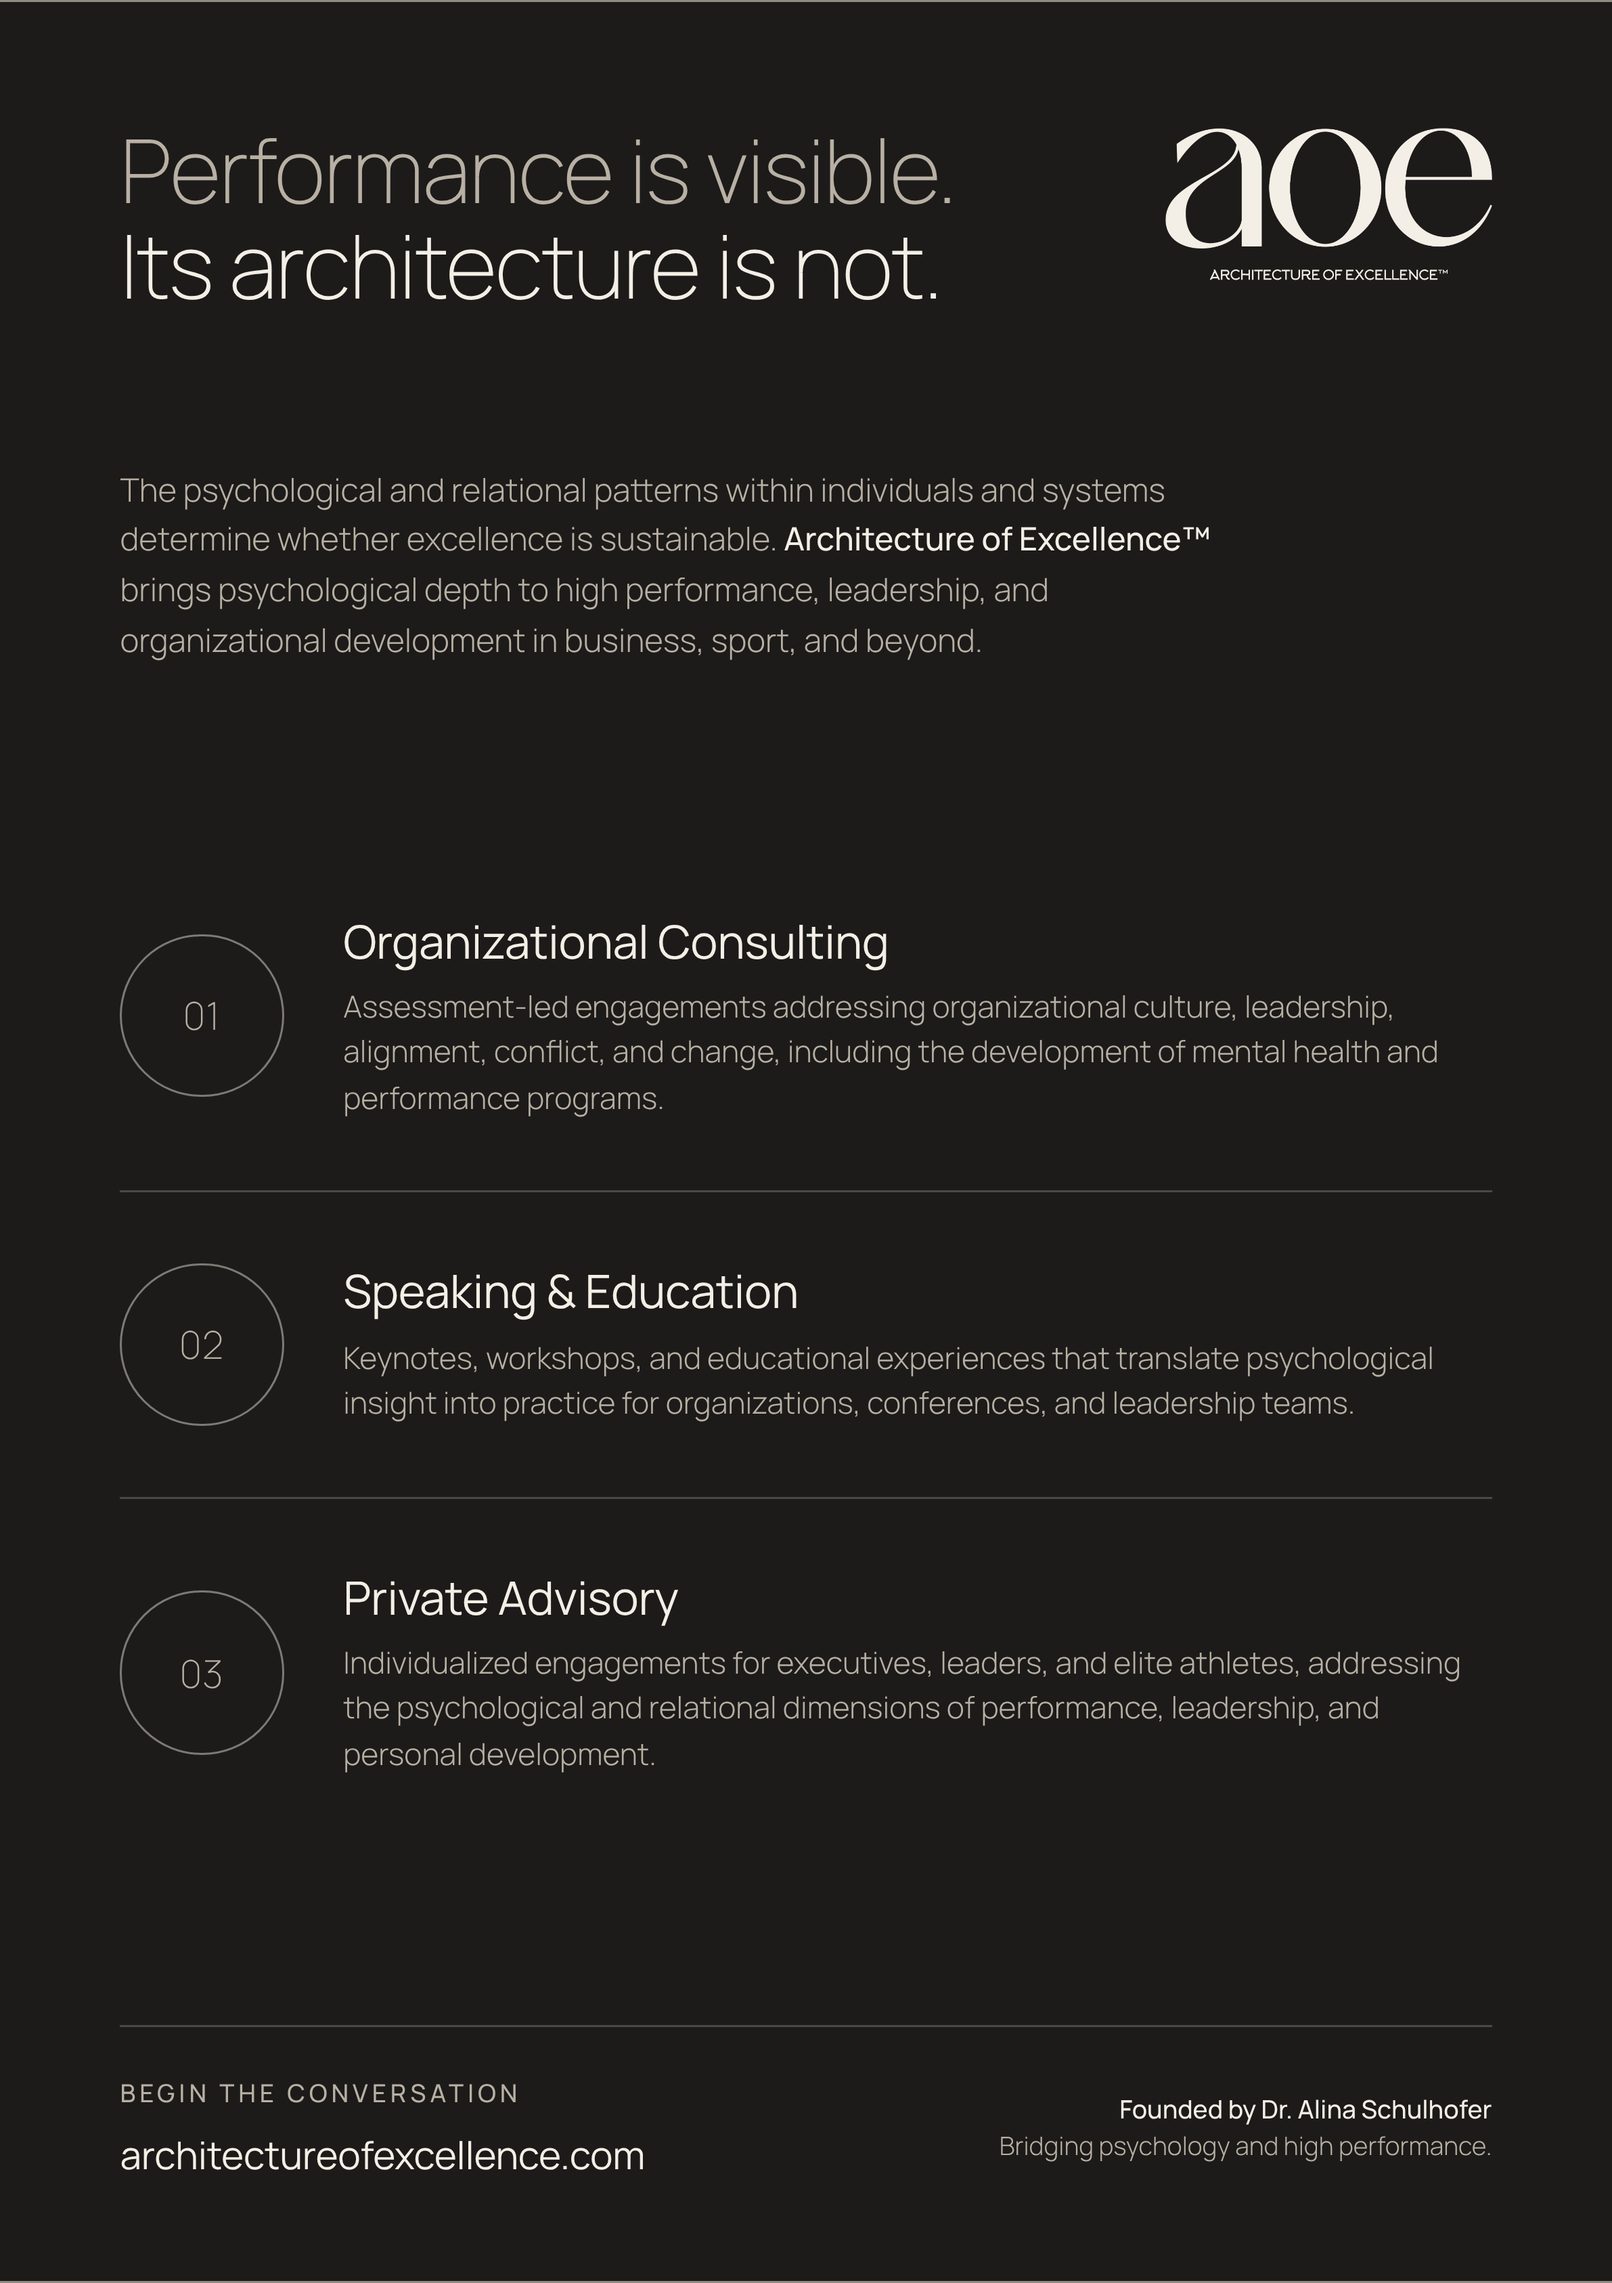
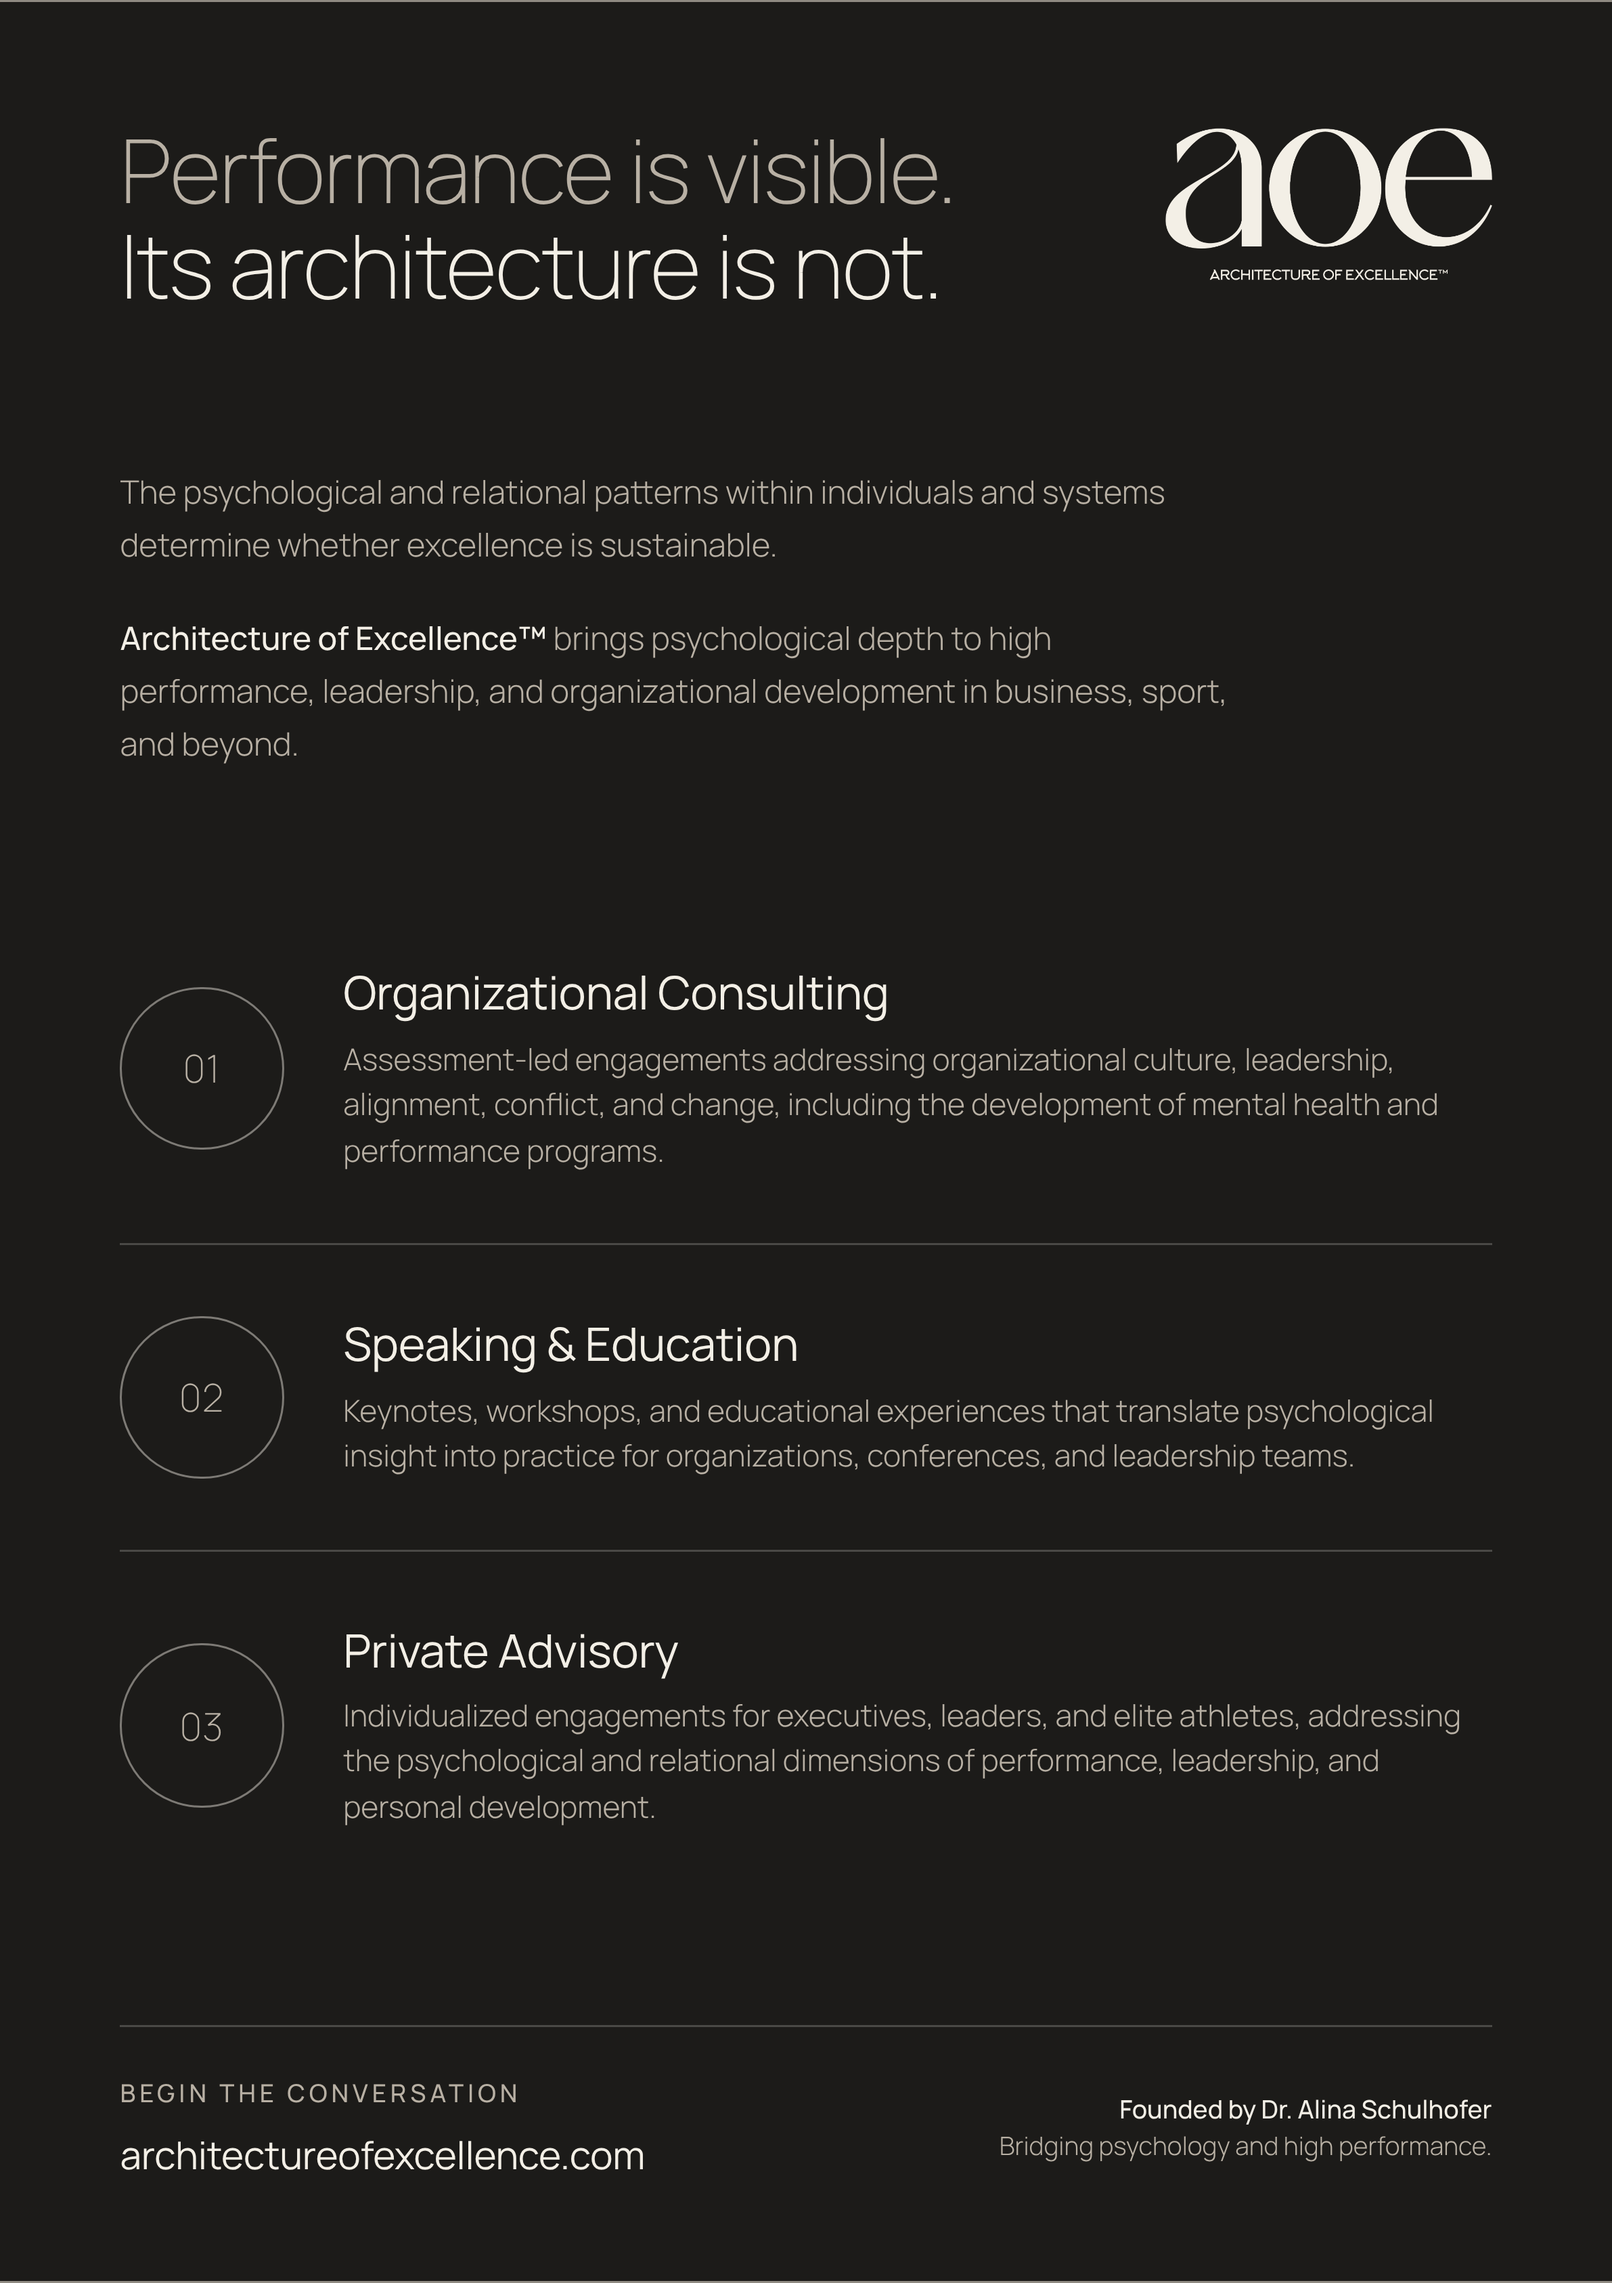
Final ad: split introduction into two spaced paragraphs
Claude-Session: https://claude.ai/code/session_016XVBEBNhyuoZMVmUbvV6yP

diff --git a/ads/panam-aquatics-2026/final-ad.html b/ads/panam-aquatics-2026/final-ad.html
@@ -22,7 +22,8 @@
   .fa .headline { font-size: 23pt; }
   .fa .headline .muted { color: var(--fg2); }
 
-  .fa .lede { margin-top: 14mm; font-size: 8.4pt; color: var(--fg2); max-width: 104mm; text-wrap: pretty; }
+  .fa .lede { margin-top: 14mm; font-size: 8.4pt; line-height: 1.65; color: var(--fg2); max-width: 104mm; text-wrap: pretty; }
+  .fa .lede p + p { margin-top: 3.6mm; }
   .fa .lede strong { font-weight: 500; color: var(--fg); }
 
   /* Services sit centred in the space between the introduction and the footer */
@@ -60,11 +61,12 @@
     <img class="lockup" src="assets/aoe-lockup-ivory.png" alt="Architecture of Excellence™" />
   </header>
 
-  <p class="lede">
-    The psychological and relational patterns within individuals and systems determine whether
-    excellence is sustainable. <strong>Architecture of Excellence™</strong> brings psychological depth
-    to high performance, leadership, and organizational development in business, sport, and beyond.
-  </p>
+  <div class="lede">
+    <p>The psychological and relational patterns within individuals and systems determine whether
+    excellence is sustainable.</p>
+    <p><strong>Architecture of Excellence™</strong> brings psychological depth to high performance,
+    leadership, and organizational development in business, sport, and beyond.</p>
+  </div>
 
   <section class="services">
     <div class="svc">
